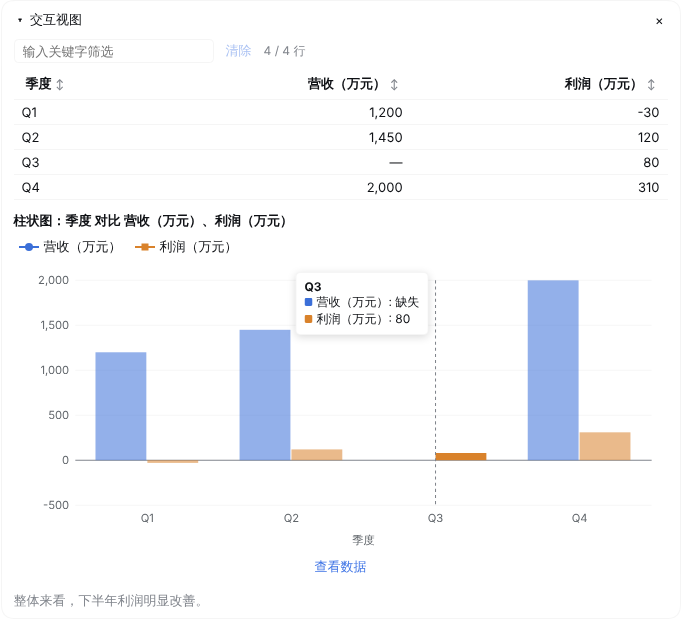
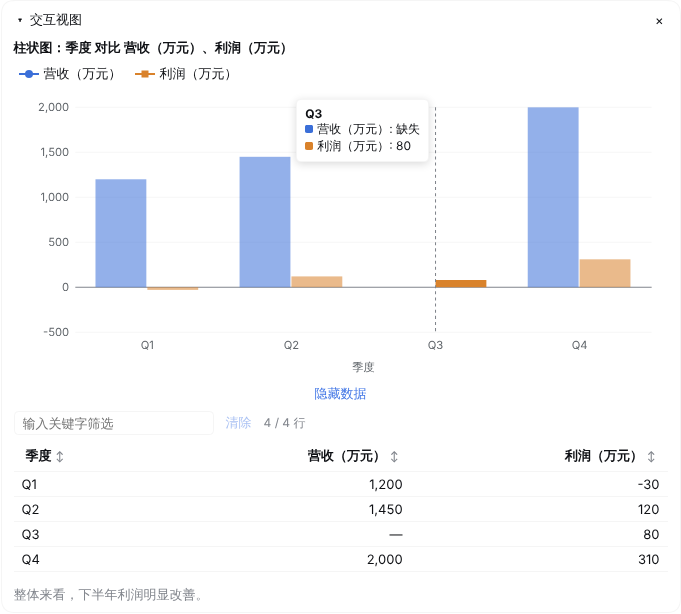
fix(chart): ordered line axis, line-aware y axis, no duplicate table, touch tooltip (#1)
- A1: a line chart's x column must be one strictly increasing time/sequence
  scale in source row order (ISO date/month, year, quarter, N月, month name,
  increasing number); the Host rejects other line programs as invalid output
  and the prompt input marks such columns lineEligible.
- A2: bars keep a zero baseline; a line zooms only when all values sit on one
  side of zero with spread under a third of the largest magnitude, and the
  caption then states where the y axis starts.
- A3: a table item for a source table that a chart in the same program
  already shows is dropped; the rows stay reachable through "view data".
- A4: tapping a point keeps its tooltip (a tap's synthetic pointer leave no
  longer clears it); the tooltip wraps within half the plot so it stays
  inside a 375px viewport. Mouse hover and keyboard focus are unchanged.

Claude-Session: https://claude.ai/code/session_01N1h5f1p3oHKznGfG2Ru5TE

diff --git a/packages/dsh-intelligent-ui/src/numeric.ts b/packages/dsh-intelligent-ui/src/numeric.ts
@@ -46,8 +46,63 @@ export function parseCell(raw: string): CellValue {
 export interface ColumnAnalysis {
   /** Same-unit numeric series, or null when the column is not plottable. */
   readonly numeric: { readonly unit: string; readonly values: readonly (number | null)[] } | null
-  /** Every cell present: usable as the category/time axis. */
+  /** Every cell present: usable as the category axis of a bar chart. */
   readonly categorical: boolean
+  /** Cells form one strictly increasing time/sequence scale: usable as a line chart's x axis. */
+  readonly ordered: boolean
+}
+
+const MONTH_NAMES = ['january', 'february', 'march', 'april', 'may', 'june', 'july', 'august', 'september', 'october', 'november', 'december']
+const CN_QUARTER: Record<string, number> = { 一: 1, 二: 2, 三: 3, 四: 4 }
+
+/** Recognized axis label shapes; each maps a label to its position on one scale. */
+const AXIS_FORMATS: readonly (readonly [scale: string, pattern: RegExp, key: (m: RegExpExecArray) => number | null])[] = [
+  ['day', /^(\d{4})[-/.](\d{1,2})[-/.](\d{1,2})$/, m => date(m[1], m[2], m[3])],
+  ['day', /^(\d{4})年(\d{1,2})月(\d{1,2})日$/, m => date(m[1], m[2], m[3])],
+  ['month', /^(\d{4})[-/.](\d{1,2})$/, m => date(m[1], m[2])],
+  ['month', /^(\d{4})年(\d{1,2})月$/, m => date(m[1], m[2])],
+  ['quarter', /^(\d{4})年?\s*[-/ ]?\s*Q([1-4])$/i, m => Number(m[1]) * 4 + Number(m[2])],
+  ['quarter', /^(\d{4})年?第?([1-4一二三四])季度$/, m => Number(m[1]) * 4 + (CN_QUARTER[m[2] ?? ''] ?? Number(m[2]))],
+  ['q', /^Q([1-4])$/i, m => Number(m[1])],
+  ['q', /^第([1-4一二三四])季度$/, m => CN_QUARTER[m[1] ?? ''] ?? Number(m[1])],
+  ['m', /^(\d{1,2})月$/, m => date('0', m[1])],
+  ['year', /^(\d{4})年?$/, m => Number(m[1])],
+]
+
+function date(year = '', month = '', day = '1'): number | null {
+  const [y, mo, d] = [Number(year), Number(month), Number(day)]
+  return mo >= 1 && mo <= 12 && d >= 1 && d <= 31 ? (y * 12 + mo) * 32 + d : null
+}
+
+/** One label's scale and position, or null when it is not a recognized time/sequence label. */
+function axisKey(raw: string): { readonly scale: string; readonly key: number } | null {
+  const text = raw.trim()
+  for (const [scale, pattern, key] of AXIS_FORMATS) {
+    const match = pattern.exec(text)
+    if (match !== null) {
+      const value = key(match)
+      return value === null ? null : { scale, key: value }
+    }
+  }
+  const name = text.toLowerCase().replace(/\.$/, '')
+  const month = name.length >= 3 ? MONTH_NAMES.findIndex(full => full.startsWith(name)) : -1
+  if (month >= 0) return { scale: 'm', key: month + 1 }
+  const cell = parseCell(text)
+  return cell.kind === 'number' ? { scale: `number${cell.unit}`, key: cell.value } : null
+}
+
+/**
+ * Whether labels read as one time/sequence axis in the given row order. Rows
+ * are never reordered: a shuffled, repeated, or mixed-format axis is not ordered.
+ * @param cells - the column's cell texts, in row order.
+ * @returns true only for at least two labels on one scale, strictly increasing.
+ */
+export function isOrderedAxis(cells: readonly string[]): boolean {
+  const keys = cells.map(axisKey)
+  return keys.length >= 2 && keys.every((entry, index) => {
+    const previous = index === 0 ? null : keys[index - 1]
+    return entry !== null && (previous == null || (previous.scale === entry.scale && previous.key < entry.key))
+  })
 }
 
 /**
@@ -66,6 +121,7 @@ export function analyzeColumn(cells: readonly string[]): ColumnAnalysis {
       ? { unit: numbers[0]?.unit ?? '|', values: parsed.map(cell => cell.kind === 'number' ? cell.value : null) }
       : null,
     categorical,
+    ordered: categorical && isOrderedAxis(cells),
   }
 }
 
@@ -77,4 +133,56 @@ export function analyzeColumn(cells: readonly string[]): ColumnAnalysis {
 export function displayUnit(unit: string): string {
   const [prefix = '', suffix = ''] = unit.split('|')
   return `${prefix}${suffix}`
+}
+
+/** A chart's value axis: bounds, labeled ticks, and whether it includes zero. */
+export interface ValueAxis {
+  readonly min: number
+  readonly max: number
+  readonly ticks: readonly number[]
+  readonly zeroBased: boolean
+}
+
+function niceStep(span: number): number {
+  const raw = span / 5
+  const power = 10 ** Math.floor(Math.log10(raw))
+  const unit = raw / power
+  return (unit <= 1 ? 1 : unit <= 2 ? 2 : unit <= 5 ? 5 : 10) * power
+}
+
+/**
+ * Value axis of a chart. Bars always include zero so bar length stays
+ * proportional. A line zooms to its data only when every value sits on one
+ * side of zero and their spread is under a third of the largest magnitude
+ * (e.g. 95→100), where a zero baseline would flatten the trend; every tick
+ * stays labeled so the non-zero start is visible.
+ * @param values - visible, non-missing values.
+ * @param chart - chart kind.
+ * @returns a finite axis with a bounded tick list.
+ */
+export function valueAxis(values: readonly number[], chart: 'bar' | 'line'): ValueAxis {
+  const finite = values.filter(Number.isFinite)
+  let low = finite.length === 0 ? 0 : Math.min(...finite)
+  let high = finite.length === 0 ? 0 : Math.max(...finite)
+  const magnitude = Math.max(Math.abs(low), Math.abs(high))
+  const positive = low > 0
+  const zoom = chart === 'line' && (positive || high < 0) && (high - low) * 3 < magnitude
+  if (zoom) {
+    const pad = high > low ? (high - low) * 0.1 : magnitude * 0.05
+    low -= pad
+    high += pad
+  } else {
+    low = Math.min(0, low)
+    high = Math.max(0, high)
+  }
+  if (low === high) high = low + 1
+  const step = niceStep(high - low)
+  let min = Math.floor(low / step) * step
+  let max = Math.ceil(high / step) * step
+  // Padding never pushes a one-sided series across zero.
+  if (zoom && positive) min = Math.max(0, min)
+  else if (zoom) max = Math.min(0, max)
+  const ticks: number[] = []
+  for (let tick = min; tick <= max + step / 2; tick += step) ticks.push(Number(tick.toPrecision(12)))
+  return { min, max, ticks, zeroBased: min <= 0 && max >= 0 }
 }

diff --git a/packages/dsh-intelligent-ui/src/client/View.tsx b/packages/dsh-intelligent-ui/src/client/View.tsx
@@ -10,7 +10,7 @@ import type { TranslateNS } from '@deepseek-ai/dsh-client-ui-slots'
 import type {
   IntelligentUiCardsItem, IntelligentUiChartItem, IntelligentUiItem, IntelligentUiTableData, IntelligentUiView,
 } from '../types.ts'
-import { parseCell } from '../numeric.ts'
+import { parseCell, valueAxis } from '../numeric.ts'
 import type { NS } from './locales.ts'
 
 type T = TranslateNS<typeof NS>
@@ -185,13 +185,6 @@ const MARGIN = { top: 16, right: 16, bottom: 44, left: 60 }
 const DASHES = ['', '6 3', '2 3', '8 3 2 3']
 const MAX_X_LABELS = 12
 
-function niceStep(span: number): number {
-  const raw = span / 5
-  const power = 10 ** Math.floor(Math.log10(raw))
-  const unit = raw / power
-  return (unit <= 1 ? 1 : unit <= 2 ? 2 : unit <= 5 ? 5 : 10) * power
-}
-
 function formatNumber(value: number): string {
   return value.toLocaleString(undefined, { maximumFractionDigits: 20 })
 }
@@ -218,14 +211,7 @@ export function Chart({ item, t }: { item: IntelligentUiChartItem; t: T }) {
   const dataId = useId()
   const visible = item.series.map((series, index) => ({ series, index })).filter(entry => !hidden.has(entry.index))
   const values = visible.flatMap(entry => entry.series.values).filter((value): value is number => value !== null)
-  let min = Math.min(0, ...values)
-  let max = Math.max(0, ...values)
-  if (min === max) max = min + 1
-  const step = niceStep(max - min)
-  min = Math.floor(min / step) * step
-  max = Math.ceil(max / step) * step
-  const ticks: number[] = []
-  for (let tick = min; tick <= max + step / 2; tick += step) ticks.push(Number(tick.toPrecision(12)))
+  const { min, max, ticks, zeroBased } = valueAxis(values, item.chart)
   const plotW = WIDTH - MARGIN.left - MARGIN.right
   const plotH = HEIGHT - MARGIN.top - MARGIN.bottom
   const count = item.categories.length
@@ -256,6 +242,7 @@ export function Chart({ item, t }: { item: IntelligentUiChartItem; t: T }) {
       <figcaption>
         <span>{label}</span>
         {item.unit !== '' && <span className="diu-muted">{t('chart.unit', { unit: item.unit })}</span>}
+        {!zeroBased && <span className="diu-muted">{t('chart.axisFrom', { min: formatNumber(min) })}</span>}
       </figcaption>
       <div className="diu-legend" role="group" aria-label={t('chart.legend')}>
         {item.series.map((series, index) => (
@@ -270,7 +257,9 @@ export function Chart({ item, t }: { item: IntelligentUiChartItem; t: T }) {
         ))}
       </div>
       <div className="diu-plot">
-        <svg viewBox={`0 0 ${WIDTH} ${HEIGHT}`} role="img" aria-label={label} onMouseLeave={() => { setActive(null) }}>
+        <svg viewBox={`0 0 ${WIDTH} ${HEIGHT}`} role="img" aria-label={label}
+          // A tap ends with a synthetic leave; only a mouse/pen leaving hides the tooltip.
+          onPointerLeave={(event) => { if (event.pointerType !== 'touch') setActive(null) }}>
           {ticks.map(tick => (
             <g key={tick} className="diu-grid">
               <line x1={MARGIN.left} x2={WIDTH - MARGIN.right} y1={y(tick)} y2={y(tick)} className={tick === 0 ? 'diu-zero' : undefined} />
@@ -318,13 +307,16 @@ export function Chart({ item, t }: { item: IntelligentUiChartItem; t: T }) {
           {item.categories.map((_, index) => (
             <rect key={index} className="diu-hit" x={MARGIN.left + band * index} y={MARGIN.top} width={band} height={plotH}
               tabIndex={0} role="img" aria-label={pointText(index)}
-              onMouseEnter={() => { setActive(index) }} onFocus={() => { setActive(index) }} onBlur={() => { setActive(null) }} />
+              onMouseEnter={() => { setActive(index) }} onFocus={() => { setActive(index) }} onBlur={() => { setActive(null) }}
+              onClick={() => { setActive(index) }} />
           ))}
           {active !== null && <line className="diu-cursor" x1={center(active)} x2={center(active)} y1={MARGIN.top} y2={MARGIN.top + plotH} />}
         </svg>
         {active !== null && (
           <div className="diu-tooltip" role="tooltip"
-            style={{ left: `${center(active) / WIDTH * 100}%`, transform: center(active) > WIDTH / 2 ? 'translateX(-105%)' : 'translateX(5%)' }}>
+            style={center(active) > WIDTH / 2
+              ? { right: `calc(${100 - center(active) / WIDTH * 100}% + 6px)` }
+              : { left: `calc(${center(active) / WIDTH * 100}% + 6px)` }}>
             <strong>{item.categories[active]}</strong>
             {visible.map(({ series, index }) => {
               const value = series.values[active]

diff --git a/packages/dsh-intelligent-ui/tests/core.spec.ts b/packages/dsh-intelligent-ui/tests/core.spec.ts
@@ -1,5 +1,5 @@
 import { describe, expect, it } from 'vitest'
-import { analyzeColumn, parseCell } from '../src/numeric.ts'
+import { analyzeColumn, isOrderedAxis, parseCell, valueAxis } from '../src/numeric.ts'
 import { readProgram } from '../src/program.ts'
 import { screen } from '../src/smart-auto.ts'
 import { buildSourceIndex } from '../src/source-index.ts'
@@ -44,6 +44,52 @@ describe('numeric fidelity', () => {
   })
 })
 
+describe('chart axes', () => {
+  it.each([
+    [['Q1', 'Q2', 'Q3']],
+    [['2026-01', '2026-02', '2026-03']],
+    [['1月', '2月', '3月']],
+    [['2024', '2025年', '2026']],
+    [['2025 Q4', '2026 Q1']],
+    [['Jan', 'Feb', 'Mar']],
+  ])('accepts %j as an ordered line axis', (cells) => {
+    expect(isOrderedAxis(cells)).toBe(true)
+  })
+
+  it.each([
+    [['A', 'B', 'C']],
+    [['Q2', 'Q1', 'Q3']],
+    [['Q1', 'Q1', 'Q2']],
+    [['Q1', '2026-02']],
+    [['2026-13', '2026-14']],
+  ])('rejects %j as a line axis', (cells) => {
+    expect(isOrderedAxis(cells)).toBe(false)
+  })
+
+  it('zooms a compact line, keeps zero otherwise, and never yields non-finite ticks', () => {
+    const compact = valueAxis([95, 97, 100], 'line')
+    expect(compact.zeroBased).toBe(false)
+    expect(compact.min).toBeGreaterThan(0)
+    expect(compact.min).toBeLessThan(95)
+    expect(compact.max).toBeGreaterThanOrEqual(100)
+    expect(valueAxis([2.5, 9.5], 'line').min).toBe(0)
+    expect(valueAxis([95, 97, 100], 'bar').min).toBe(0)
+    const mixed = valueAxis([-30, 80, 120], 'bar')
+    expect(mixed.min).toBeLessThan(-30)
+    expect(mixed.ticks).toContain(0)
+    expect(valueAxis([-100, -97], 'line').max).toBeLessThanOrEqual(0)
+    for (const values of [[], [0, 0], [5, 5], [-5, -5], [0.0001, 0.0002], [1e12, 1e12 + 1]]) {
+      for (const chart of ['bar', 'line'] as const) {
+        const axis = valueAxis(values, chart)
+        expect(axis.ticks.length).toBeGreaterThan(1)
+        expect(axis.ticks.length).toBeLessThan(20)
+        expect(axis.ticks.every(Number.isFinite)).toBe(true)
+        for (const value of values) expect(value >= axis.min && value <= axis.max).toBe(true)
+      }
+    }
+  })
+})
+
 describe('program validation (fails closed)', () => {
   const index = buildSourceIndex(TABLE_ANSWER)
   const table = '{"version":1,"items":[{"type":"table","table":"t0"}]}'
@@ -60,6 +106,22 @@ describe('program validation (fails closed)', () => {
       { name: '利润', values: [-30, 120, 80, 310] },
     ])
     expect(chart.unit).toBe('$')
+  })
+
+  it('shows a charted table once, through the chart; another table stays', () => {
+    const two = buildSourceIndex(`${TABLE_ANSWER}\n\n| 地区 | 门店 |\n| --- | --- |\n| 华东 | 12 |\n| 华南 | 9 |`)
+    const outcome = readProgram('{"version":1,"items":[{"type":"table","table":"t0"},{"type":"chart","table":"t0","chart":"line","x":"c0","series":["c2"]},{"type":"table","table":"t1"}]}', two)
+    if (outcome.kind !== 'view') throw new Error(JSON.stringify(outcome))
+    expect(outcome.view.items.map(item => item.type)).toEqual(['chart', 'table'])
+    const [chart, table] = outcome.view.items
+    expect(chart?.type === 'chart' && chart.table.rows).toHaveLength(4)
+    expect(table?.type === 'table' && table.table.headers).toEqual(['地区', '门店'])
+  })
+
+  it('draws unordered categories only as bars', () => {
+    const shops = buildSourceIndex('| 门店 | 销量 |\n| --- | --- |\n| A | 3 |\n| B | 5 |\n| C | 4 |')
+    expect(readProgram('{"version":1,"items":[{"type":"chart","table":"t0","chart":"bar","x":"c0","series":["c1"]}]}', shops).kind).toBe('view')
+    expect(readProgram('{"version":1,"items":[{"type":"chart","table":"t0","chart":"line","x":"c0","series":["c1"]}]}', shops)).toMatchObject({ kind: 'invalid' })
   })
 
   it('accepts SKIP and exactly one enclosing json fence', () => {

diff --git a/packages/dsh-intelligent-ui/src/smart-auto.ts b/packages/dsh-intelligent-ui/src/smart-auto.ts
@@ -76,7 +76,7 @@ export const SYSTEM_PROMPT = [
   '  {"type":"markdown","blocks":["b0"]}  — short explanatory blocks worth keeping next to the view (1-12 block ids)',
   '  {"type":"cards","cards":[{"source":["b2","b3"]},{"source":["b4i0"]}]}  — 2-12 cards for independent items or compared options. A card whose first id is a heading uses that heading as its title and the following ids as its body; otherwise the first block is both title source and body.',
   '  {"type":"table","table":"t0"}  — a sortable, filterable view of a source table',
-  '  {"type":"chart","table":"t0","chart":"bar"|"line","x":"c0","series":["c1"]}  — only when x is a category or time column (category=true) and every series column has numeric != null with the SAME unit; line only for ordered time/sequence; at most 4 series',
+  '  {"type":"chart","table":"t0","chart":"bar"|"line","x":"c0","series":["c1"]}  — only when x is a category or time column (category=true) and every series column has numeric != null with the SAME unit; "line" only when x has lineEligible=true (an ordered time/sequence), otherwise "bar"; at most 4 series. A chart already lets the reader open its source table, so never add a separate table item for the same table.',
   '',
   'Rules: use only ids present in the input; never repeat a block id; do not convert every paragraph into cards; prefer a table for structured rows and add a chart only when it shows a comparison or trend; one or two good components are better than many.',
 ].join('\n')
@@ -102,6 +102,7 @@ export function framePrompt(index: SourceIndex, hints: readonly CandidateHint[])
       id: column.id,
       header: column.header,
       category: column.analysis.categorical,
+      lineEligible: column.analysis.ordered,
       numeric: column.analysis.numeric === null ? null : { unit: displayUnit(column.analysis.numeric.unit) },
     })),
     sampleRows: table.data.rows.slice(0, 5),

diff --git a/packages/dsh-intelligent-ui/src/program.ts b/packages/dsh-intelligent-ui/src/program.ts
@@ -76,8 +76,12 @@ export function readProgram(output: string, index: SourceIndex): ProgramOutcome 
   if ((body.match(/"[A-Za-z]+"\s*:/g) ?? []).length !== countKeys(parsed.data)) {
     return { kind: 'invalid', detail: 'duplicate keys' }
   }
+  // A chart already discloses its source table ("view data"), so a separate
+  // table item for the same source would show the same rows twice.
+  const charted = new Set(parsed.data.items.flatMap(item => item.type === 'chart' ? [item.table] : []))
+  const items = parsed.data.items.filter(item => item.type !== 'table' || !charted.has(item.table))
   try {
-    return { kind: 'view', view: { items: parsed.data.items.map(item => resolveItem(item, index)) } }
+    return { kind: 'view', view: { items: items.map(item => resolveItem(item, index)) } }
   } catch (error: unknown) {
     if (error instanceof BindingError) return { kind: 'invalid', detail: error.message }
     throw error
@@ -137,6 +141,8 @@ function resolveItem(item: Program['items'][number], index: SourceIndex): Intell
       distinct([item.x, ...item.series], 'chart column')
       const x = source.columns.find(column => column.id === item.x)
       if (x === undefined || !x.analysis.categorical) throw new BindingError(`column ${item.x} is not a category axis`)
+      // A line implies a trend; unordered categories may only be compared as bars.
+      if (item.chart === 'line' && !x.analysis.ordered) throw new BindingError(`column ${item.x} is not an ordered time/sequence axis`)
       const series = item.series.map((id) => {
         const column = source.columns.find(candidate => candidate.id === id)
         if (column?.analysis.numeric == null) throw new BindingError(`column ${id} is not a same-unit numeric column`)

diff --git a/packages/dsh-intelligent-ui/src/client/styles.ts b/packages/dsh-intelligent-ui/src/client/styles.ts
@@ -48,6 +48,6 @@ body[data-ds-dark-theme] .diu-root{--diu-s0:#7aa2f7;--diu-s1:#f0a35e;--diu-s2:#5
 .diu-legend-item svg circle,.diu-legend-item svg rect,.diu-legend-item svg path{fill:var(--c)}
 .diu-hit{fill:transparent;outline:none}
 .diu-cursor{stroke:var(--dsw-alias-label-tertiary,#888);stroke-dasharray:3 3;pointer-events:none}
-.diu-tooltip{position:absolute;top:8px;pointer-events:none;background:var(--dsw-alias-bg-l1,Canvas);border:1px solid var(--dsw-alias-border-l1,rgba(127,127,127,.35));border-radius:6px;padding:6px 8px;font-size:12px;box-shadow:0 2px 8px rgba(0,0,0,.15);white-space:nowrap;z-index:1}
+.diu-tooltip{position:absolute;top:8px;pointer-events:none;background:var(--dsw-alias-bg-l1,Canvas);border:1px solid var(--dsw-alias-border-l1,rgba(127,127,127,.35));border-radius:6px;padding:6px 8px;font-size:12px;box-shadow:0 2px 8px rgba(0,0,0,.15);width:max-content;max-width:calc(50% - 8px);overflow-wrap:anywhere;z-index:1}
 .diu-swatch{display:inline-block;width:8px;height:8px;border-radius:2px;background:var(--c);margin-right:4px}
 `

diff --git a/packages/dsh-intelligent-ui/src/client/locales.ts b/packages/dsh-intelligent-ui/src/client/locales.ts
@@ -30,6 +30,7 @@ export const zh = {
   'chart.viewData': '查看数据',
   'chart.hideData': '隐藏数据',
   'chart.unit': '单位：{unit}',
+  'chart.axisFrom': '纵轴从 {min} 起',
   'markdown.copy': '复制',
   'markdown.copied': '已复制',
   'markdown.footnotes': '脚注',
@@ -65,6 +66,7 @@ export const en: Record<IntelligentUiKey, string> = {
   'chart.viewData': 'View data',
   'chart.hideData': 'Hide data',
   'chart.unit': 'Unit: {unit}',
+  'chart.axisFrom': 'Y axis starts at {min}',
   'markdown.copy': 'Copy',
   'markdown.copied': 'Copied',
   'markdown.footnotes': 'Footnotes',

diff --git a/packages/dsh-intelligent-ui/tests/service.spec.ts b/packages/dsh-intelligent-ui/tests/service.spec.ts
@@ -109,7 +109,7 @@ describe('IntelligentUiService', () => {
     const result = await settle(service, ref)
     expect(result.status).toBe('ready')
     if (result.status !== 'ready') return
-    expect(result.view.items.map(item => item.type)).toEqual(['table', 'chart'])
+    expect(result.view.items.map(item => item.type)).toEqual(['chart'])
     expect(result.usage).toMatchObject({ inputTokens: 40, outputTokens: 12 })
     expect(calls).toHaveLength(1)
     expect(calls[0]?.tools).toBeUndefined()

diff --git a/packages/dsh-intelligent-ui/README.md b/packages/dsh-intelligent-ui/README.md
@@ -54,7 +54,7 @@ dsh plugin --profile <profile> add /path/to/dsh-intelligent-ui-0.1.0.tgz
 - **Markdown**：原文块的逐字摘录，经宿主的 Markdown 渲染器显示。
 - **卡片**：用于并列的选项或条目。标题取自原文标题，正文较长时可展开或收起。
 - **表格**：基于原文的 GFM 表格，支持排序（数值或文本，缺失值始终排在最后）、筛选、清除筛选。
-- **图表**：柱状图或折线图，最多 4 个系列且单位必须相同。纵轴始终包含 0；负值画在 0 线以下。缺失值显示为“缺失”：柱状图不画该柱，折线在该处断开，不会当作 0 处理。支持 tooltip（鼠标与键盘焦点均可触发）、图例开关，以及“查看数据”表格。
+- **图表**：柱状图或折线图，最多 4 个系列且单位必须相同。折线图的横轴必须是按原行序严格递增的时间/序列（如 `Q1→Q2→Q3`、`2026-01→2026-02`、`1月→2月`、年份或递增数值），无序、乱序或重复的类别只能画柱状图，否则整个视图按非法输出回退。柱状图纵轴始终包含 0，负值画在 0 线以下；折线图仅当数值都在 0 的同一侧且波动不足最大绝对值的三分之一时（如 95→100）缩放纵轴，此时标题旁注明“纵轴从 N 起”，刻度全部标出。缺失值显示为“缺失”：柱状图不画该柱，折线在该处断开，不会当作 0 处理。支持 tooltip（鼠标悬停、键盘焦点、触屏点按均可触发）、图例开关，以及“查看数据”表格。同一张源表若已有图表，视图不再另放一份相同的表格，原数据通过图表的“查看数据”查看、筛选、排序。
 
 所有交互只在本地进行，不会发送消息、调用工具或请求模型。视图可折叠，也可关闭后再次打开，并跟随宿主的浅色/深色主题。
 
